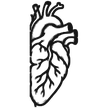
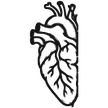
Girar corazón y cerebro para que encajen
Claude-Session: https://claude.ai/code/session_014G71m3sEGEsaWWKgYZcMoZ

Changed region(s): [[0.25, 0.0, 0.75, 1.0]]

diff --git a/index.html b/index.html
@@ -1,1 +1,1 @@
-<!doctype html><html lang="es"><head><meta charset="utf-8"><meta http-equiv="Content-Security-Policy" content="default-src 'self'; script-src 'self'; style-src 'self' 'unsafe-inline'; img-src 'self' data: blob:; font-src 'self'; connect-src 'self'; worker-src 'self' blob:; object-src 'none'; base-uri 'none'; form-action 'self'"><meta name="referrer" content="no-referrer"><meta name="viewport" content="width=device-width,initial-scale=1,viewport-fit=cover"><meta name="theme-color" content="#f4ecdf"><meta name="apple-mobile-web-app-capable" content="yes"><meta name="mobile-web-app-capable" content="yes"><title>SÍ PUEDO · INVICTO</title><meta name="apple-mobile-web-app-title" content="SÍ PUEDO"><meta name="description" content="SÍ PUEDO · INVICTO. Un espacio amable para organizar tu tiempo, tus tareas y tu dinero, un paso cada vez."><link rel="icon" type="image/png" href="icono-192.png?v=2026.11.04-215107"><link rel="apple-touch-icon" href="apple-touch-icon.png?v=2026.11.04-215107"><link rel="manifest" href="manifest.json"><link rel="stylesheet" href="style.css?v=2026.11.04-221209"><link rel="stylesheet" href="theme.css?v=2026.11.04-221209"><link rel="stylesheet" href="mediterraneo.css?v=2026.11.04-221209"></head><body><div id="splash" aria-hidden="true"><span class="splash-coin"><img src="icono-512.png" alt=""></span><span class="splash-name"><strong>SÍ PUEDO</strong><small>INVICTO</small></span></div><div class="shell"><aside><a class="brand" href="#hoy" aria-label="SÍ PUEDO · INVICTO, inicio"><span class="brand-coin"><img src="icono-512.png" alt="" width="76" height="76"></span><span class="brand-type"><strong>SÍ PUEDO</strong><small>INVICTO</small></span></a><p class="tag">MENOS RUIDO. MÁS CALMA.</p><nav id="nav"></nav><div class="aside-note">No tienes que resolverlo todo hoy.<br><b>Solo dar el siguiente paso.</b></div></aside><main><header><span id="date"></span><button id="backup">Guardar copia ↗</button><button id="security" aria-label="Protección con PIN"><svg class="ico" viewBox="0 0 24 24" aria-hidden="true" fill="none" stroke="currentColor" stroke-width="1.7" stroke-linecap="round" stroke-linejoin="round"><rect x="4" y="11" width="16" height="10" rx="2"/><path d="M8 11V7a4 4 0 0 1 8 0v4"/></svg></button><label class="import">Restaurar<input type="file" id="restore" accept="application/json" hidden></label></header><div id="view"></div><footer>Tus datos se guardan en este navegador, en este dispositivo. Haz copias periódicas. No hay conexión bancaria ni sincronización entre dispositivos.</footer></main></div><dialog id="modal"><form id="form"><div class="dialog-head"><h2 id="form-title"></h2><button type="button" id="close" aria-label="Cerrar">×</button></div><div id="fields"></div><button class="primary" type="submit">Guardar</button></form></dialog><div id="toast" role="status"></div><script src="update.js?v=2026.11.04-221209"></script><script src="icons.js?v=2026.11.04-221209"></script><script src="security.js?v=2026.11.04-221209"></script><script src="faceid.js?v=2026.11.04-221209"></script><script src="time.js?v=2026.11.04-221209"></script><script src="agenda.js?v=2026.11.04-221209"></script><script src="feelings.js?v=2026.11.04-221209"></script><script src="taxes.js?v=2026.11.04-221209"></script><script src="balances.js?v=2026.11.04-221209"></script><script src="viz.js?v=2026.11.04-221209"></script><script src="inbox.js?v=2026.11.04-221209"></script><script src="taxplans.js?v=2026.11.04-221209"></script><script src="receivables.js?v=2026.11.04-221209"></script><script src="recurring.js?v=2026.11.04-221209"></script><script src="spaces.js?v=2026.11.04-221209"></script><script src="app.js?v=2026.11.04-221209"></script></body></html>
+<!doctype html><html lang="es"><head><meta charset="utf-8"><meta http-equiv="Content-Security-Policy" content="default-src 'self'; script-src 'self'; style-src 'self' 'unsafe-inline'; img-src 'self' data: blob:; font-src 'self'; connect-src 'self'; worker-src 'self' blob:; object-src 'none'; base-uri 'none'; form-action 'self'"><meta name="referrer" content="no-referrer"><meta name="viewport" content="width=device-width,initial-scale=1,viewport-fit=cover"><meta name="theme-color" content="#f4ecdf"><meta name="apple-mobile-web-app-capable" content="yes"><meta name="mobile-web-app-capable" content="yes"><title>SÍ PUEDO · INVICTO</title><meta name="apple-mobile-web-app-title" content="SÍ PUEDO"><meta name="description" content="SÍ PUEDO · INVICTO. Un espacio amable para organizar tu tiempo, tus tareas y tu dinero, un paso cada vez."><link rel="icon" type="image/png" href="icono-192.png?v=2026.11.04-215107"><link rel="apple-touch-icon" href="apple-touch-icon.png?v=2026.11.04-215107"><link rel="manifest" href="manifest.json"><link rel="stylesheet" href="style.css?v=2026.11.04-221546"><link rel="stylesheet" href="theme.css?v=2026.11.04-221546"><link rel="stylesheet" href="mediterraneo.css?v=2026.11.04-221546"></head><body><div id="splash" aria-hidden="true"><span class="splash-coin"><img src="icono-512.png" alt=""></span><span class="splash-name"><strong>SÍ PUEDO</strong><small>INVICTO</small></span></div><div class="shell"><aside><a class="brand" href="#hoy" aria-label="SÍ PUEDO · INVICTO, inicio"><span class="brand-coin"><img src="icono-512.png" alt="" width="76" height="76"></span><span class="brand-type"><strong>SÍ PUEDO</strong><small>INVICTO</small></span></a><p class="tag">MENOS RUIDO. MÁS CALMA.</p><nav id="nav"></nav><div class="aside-note">No tienes que resolverlo todo hoy.<br><b>Solo dar el siguiente paso.</b></div></aside><main><header><span id="date"></span><button id="backup">Guardar copia ↗</button><button id="security" aria-label="Protección con PIN"><svg class="ico" viewBox="0 0 24 24" aria-hidden="true" fill="none" stroke="currentColor" stroke-width="1.7" stroke-linecap="round" stroke-linejoin="round"><rect x="4" y="11" width="16" height="10" rx="2"/><path d="M8 11V7a4 4 0 0 1 8 0v4"/></svg></button><label class="import">Restaurar<input type="file" id="restore" accept="application/json" hidden></label></header><div id="view"></div><footer>Tus datos se guardan en este navegador, en este dispositivo. Haz copias periódicas. No hay conexión bancaria ni sincronización entre dispositivos.</footer></main></div><dialog id="modal"><form id="form"><div class="dialog-head"><h2 id="form-title"></h2><button type="button" id="close" aria-label="Cerrar">×</button></div><div id="fields"></div><button class="primary" type="submit">Guardar</button></form></dialog><div id="toast" role="status"></div><script src="update.js?v=2026.11.04-221546"></script><script src="icons.js?v=2026.11.04-221546"></script><script src="security.js?v=2026.11.04-221546"></script><script src="faceid.js?v=2026.11.04-221546"></script><script src="time.js?v=2026.11.04-221546"></script><script src="agenda.js?v=2026.11.04-221546"></script><script src="feelings.js?v=2026.11.04-221546"></script><script src="taxes.js?v=2026.11.04-221546"></script><script src="balances.js?v=2026.11.04-221546"></script><script src="viz.js?v=2026.11.04-221546"></script><script src="inbox.js?v=2026.11.04-221546"></script><script src="taxplans.js?v=2026.11.04-221546"></script><script src="receivables.js?v=2026.11.04-221546"></script><script src="recurring.js?v=2026.11.04-221546"></script><script src="spaces.js?v=2026.11.04-221546"></script><script src="app.js?v=2026.11.04-221546"></script></body></html>

diff --git a/update.js b/update.js
@@ -1,5 +1,5 @@
 // Actualización automática: al abrir o volver a la app, comprueba si hay una versión nueva
 // publicada y recarga sin caché. Así los cambios llegan sin borrar ni reinstalar nada.
-const APP_VERSION='2026.11.04-221209';
+const APP_VERSION='2026.11.04-221546';
 async function checkForUpdate(){try{const r=await fetch('version.json?t='+Date.now(),{cache:'no-store'});if(!r.ok)return;const {version}=await r.json();if(version&&version!==APP_VERSION){const key='si-puedo-updated-to';if(sessionStorage.getItem(key)===version)return;sessionStorage.setItem(key,version);location.replace(location.pathname+'?v='+encodeURIComponent(version)+location.hash)}}catch{}}
 checkForUpdate();document.addEventListener('visibilitychange',()=>{if(!document.hidden)checkForUpdate()});

diff --git a/CAMBIOS.md b/CAMBIOS.md
@@ -202,3 +202,6 @@ Basado en la versión publicada `b6eb9c967d93c75038147e070caaa6e370bffd78`. No s
 - Logo más grande en la página principal.
 - Al abrir la app, el logo aparece poco a poco.
 - Aviso en Hoy para activar Face ID.
+
+## 2026.11.04-221546
+- Corazón y Cerebro girados para que se miren y encajen como en el logo.
